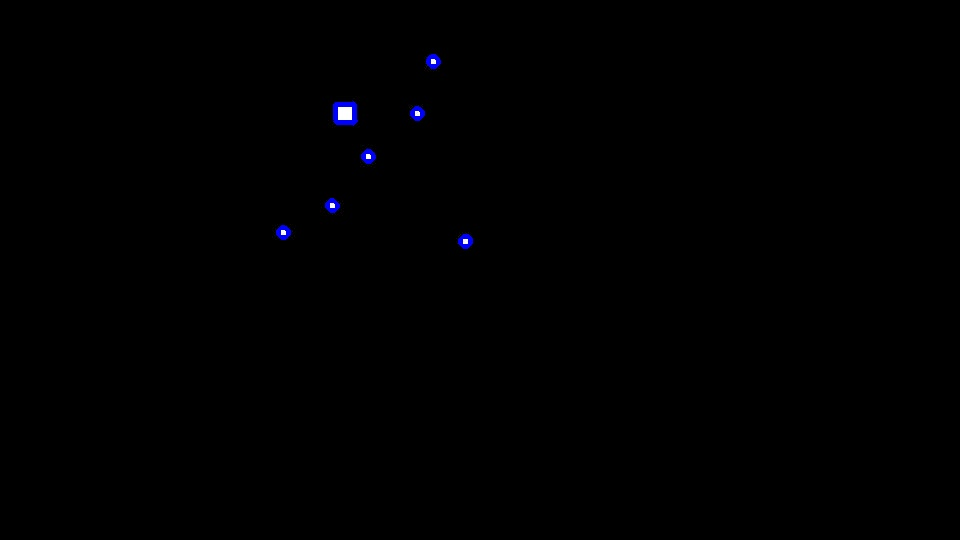
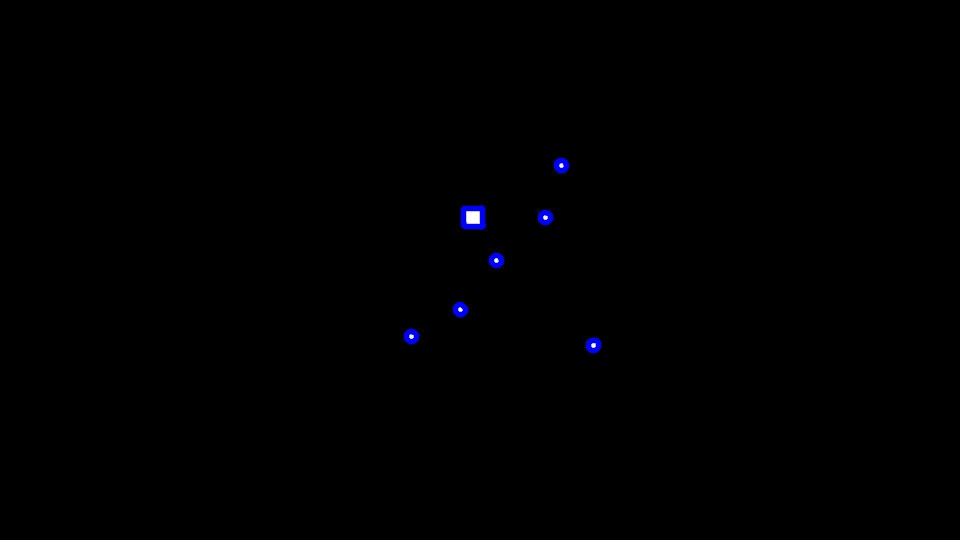
crop images

diff --git a/opencv/crop_image.py b/opencv/crop_image.py
@@ -1,40 +1,56 @@
-import cv2, numpy as np, matplotlib.pyplot as plt
+import cv2, random, math, numpy as np, matplotlib.pyplot as plt
 from extract_stars import extractStars
 from star import Star
+from extract_constellation_size import extractConstellationSize
 
-def extractConstellationHeight(origFileNameWithoutExt):
-    origFileName = origFileNameWithoutExt + ".jpg"
-    image = cv2.imread(origFileName)
-
-    stars, grayscaleImage, binaryImage = extractStars(origFileNameWithoutExt)
+def cropImage(origFileNameWithoutExt):
+    binaryFileName = origFileNameWithoutExt + "-binary" + ".jpg"
+    binaryImage = cv2.imread(binaryFileName)
+    height = binaryImage.shape[0]
+    width = binaryImage.shape[1]
+#     print(height,width)
+    maxConstellationHeight = 322
     
-    leftMost = 1000
-    rightMost = 0
-    topMost = 1000
-    bottomMost = 0
-
-#     for star in stars:
-#         print(star.shape, star.center,
-#               star.xLeft, star.xRight, star.yTop, star.yBottom)
-
-    for star in stars:
-        if star.xLeft < leftMost: leftMost = star.xLeft
-        if star.xRight > rightMost: rightMost = star.xRight
-        if star.yTop < topMost: topMost = star.yTop
-        if star.yBottom > bottomMost: bottomMost = star.yBottom
+    stars, leftMost, rightMost, topMost, bottomMost = extractConstellationSize(origFileNameWithoutExt)
+    verticalMiddle = int((bottomMost + topMost)/2)
+    cropTop = int(verticalMiddle-(maxConstellationHeight/2))
+    cropBottom = int(verticalMiddle+(maxConstellationHeight/2))
     
-    print(leftMost, rightMost, topMost, bottomMost)
-    return (leftMost, rightMost, topMost, bottomMost)
-
-def extractMaxConstellationHeight(origFileNamesWithoutExt):
-    maxHeight = 0
-    for fileName in origFileNamesWithoutExt:
-        _, _, topMost, bottomMost = extractConstellationHeight(fileName)
-        height = bottomMost - topMost
-        print("Height", height)
-        if height > maxHeight:
-            maxHeight = height
-    return maxHeight
+    croppedBinaryImage = binaryImage[cropTop:cropBottom, leftMost:rightMost]
+#     cv2.imwrite(origFileNameWithoutExt + "-binary-cropped.jpg", croppedBinaryImage)
+    
+    croppedHeight = croppedBinaryImage.shape[0]
+    croppedWidth = croppedBinaryImage.shape[1]
+    
+    currentX = 0
+    for i in range(8):
+        if i == 4:
+            cv2.line(croppedBinaryImage, (currentX,0), (currentX,croppedHeight-1), (0,0,255))
+        else:
+            cv2.line(croppedBinaryImage, (currentX,0), (currentX,croppedHeight-1), (255,0,0))
+        if random.random() < 0.5:
+            xMargin = math.floor(croppedWidth/8)
+        else:
+            xMargin = math.ceil(croppedWidth/8)
+        currentX += xMargin
+    
+    currentY = 0
+    for i in range(13):
+        if i == 4 or i == 6 or i == 8:
+            cv2.line(croppedBinaryImage, (0,currentY), (croppedWidth-1,currentY), (0,0,255))
+        else:
+            cv2.line(croppedBinaryImage, (0,currentY), (croppedWidth-1,currentY), (255,0,0))
+        if random.random() < 0.5:
+            yMargin = math.floor(croppedHeight/12)
+        else:
+            yMargin = math.ceil(croppedHeight/12)
+        currentY += yMargin        
+        
+#         cv2.line(croppedBinaryImage, (croppedWidth-1,0), (croppedWidth-1,croppedHeight-1), (255,0,0))
+    
+    cv2.imwrite(origFileNameWithoutExt + "-binary-cropped.jpg", croppedBinaryImage)
+    
+    
 
 if __name__ == "__main__":
     origFileNamesWithoutExt = ["images/aquila",
@@ -43,10 +59,13 @@ if __name__ == "__main__":
                                "images/cassiopeia",
                                "images/cygnus",
                                "images/lyra",
-                               "images/orion"]
-    maxHeight = extractMaxConstellationHeight(origFileNamesWithoutExt)
-    print("Max height", maxHeight)
+                               "images/orion",
+                               "images/canis-minor"]
+    for fileName in origFileNamesWithoutExt:
+        cropImage(fileName)
     
+
+
 
 
 

diff --git a/opencv/extract_constellation_size.py b/opencv/extract_constellation_size.py
@@ -2,7 +2,7 @@ import cv2, numpy as np, matplotlib.pyplot as plt
 from extract_stars import extractStars
 from star import Star
 
-def extractConstellationHeight(origFileNameWithoutExt):
+def extractConstellationSize(origFileNameWithoutExt):
     origFileName = origFileNameWithoutExt + ".jpg"
     image = cv2.imread(origFileName)
 
@@ -23,14 +23,15 @@ def extractConstellationHeight(origFileNameWithoutExt):
         if star.yTop < topMost: topMost = star.yTop
         if star.yBottom > bottomMost: bottomMost = star.yBottom
     
-    print(leftMost, rightMost, topMost, bottomMost)
-    return (leftMost, rightMost, topMost, bottomMost)
+#     print(leftMost, rightMost, topMost, bottomMost)
+    return (stars, leftMost, rightMost, topMost, bottomMost)
 
 def extractMaxConstellationHeight(origFileNamesWithoutExt):
     maxHeight = 0
     for fileName in origFileNamesWithoutExt:
-        _, _, topMost, bottomMost = extractConstellationHeight(fileName)
+        stars, leftMost, rightMost, topMost, bottomMost = extractConstellationSize(fileName)
         height = bottomMost - topMost
+        print(leftMost, rightMost, topMost, bottomMost)
         print("Height", height)
         if height > maxHeight:
             maxHeight = height
@@ -43,7 +44,8 @@ if __name__ == "__main__":
                                "images/cassiopeia",
                                "images/cygnus",
                                "images/lyra",
-                               "images/orion"]
+                               "images/orion",
+                               "images/canis-minor"]
     maxHeight = extractMaxConstellationHeight(origFileNamesWithoutExt)
     print("Max height", maxHeight)
     

diff --git a/opencv/extract_stars.py b/opencv/extract_stars.py
@@ -18,7 +18,7 @@ def extractStars(origFileNameWithoutExt):
 #         print(approxPoly)
         
         if len(approxPoly) >= 8:
-            (x,y), radius = cv2.minEnclosingCircle(approxPoly)
+            (x,y), radius = cv2.minEnclosingCircle(contour)
             center = (int(x), int(y))
             radius = int(radius)
             if radius >= 8:
@@ -29,7 +29,7 @@ def extractStars(origFileNameWithoutExt):
                         center[0]-radius, center[0]+radius,
                         center[1]-radius, center[1]+radius)
         else:
-            x, y, width, height = cv2.boundingRect(approxPoly)
+            x, y, width, height = cv2.boundingRect(contour)
             center = (int(x+(width/2)), int(y+(height/2)))
             halfSideLength = int((width + height)/4)
             star = Star("rectangle", center,

diff --git a/opencv/detect_contours.py b/opencv/detect_contours.py
@@ -10,7 +10,7 @@ def detectContours(origFileNameWithoutExt):
     grayscaleImage, binaryImage = binalizeImage(origFileNameWithoutExt)
 
     contours, hierarchy = cv2.findContours(binaryImage, cv2.RETR_EXTERNAL, cv2.CHAIN_APPROX_SIMPLE)
-    cv2.drawContours(image, contours, -1, (255, 0, 0), 3)
+    cv2.drawContours(image, contours, -1, (255, 0, 0), 3, cv2.LINE_AA)
         # -1: Draw all contours
         # (255, 0, 0): Coutour color (BGR)
         # 3: Thickness of a contour line
